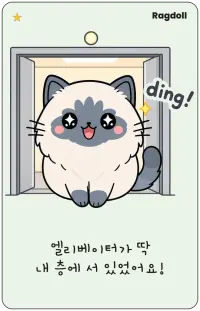
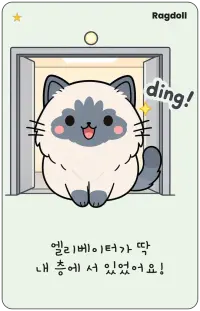
Refresh the eye-fix breed art and bust the card image cache.
Re-encode the twelve updated breed fronts into the opt WebPs the app serves, and bump CARD_ASSET_VERSION so immutable image URLs fetch the new bitmaps.

Changed region(s): [[0.48, 0.3473, 0.6, 0.4341], [0.3, 0.3473, 0.39, 0.4341]]

diff --git a/src/lib/cardAssetVersion.ts b/src/lib/cardAssetVersion.ts
@@ -1,2 +1,2 @@
 /** Generated by scripts/build-card-images.mjs. Content hash of the opt WebPs. */
-export const CARD_ASSET_VERSION = "c5c2dd88c2";
+export const CARD_ASSET_VERSION = "75956fff10";
